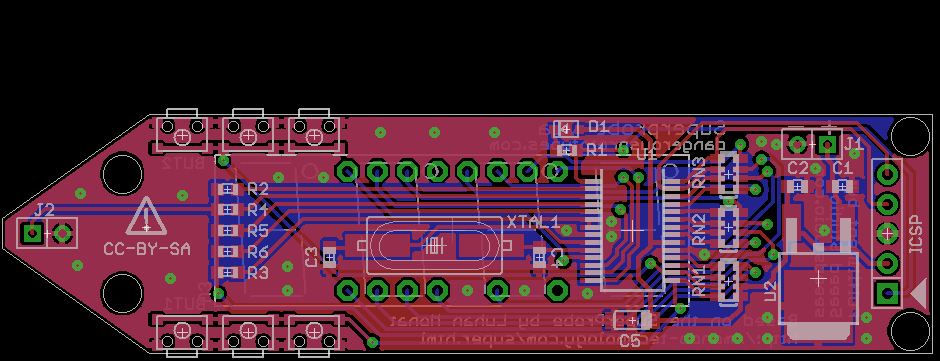
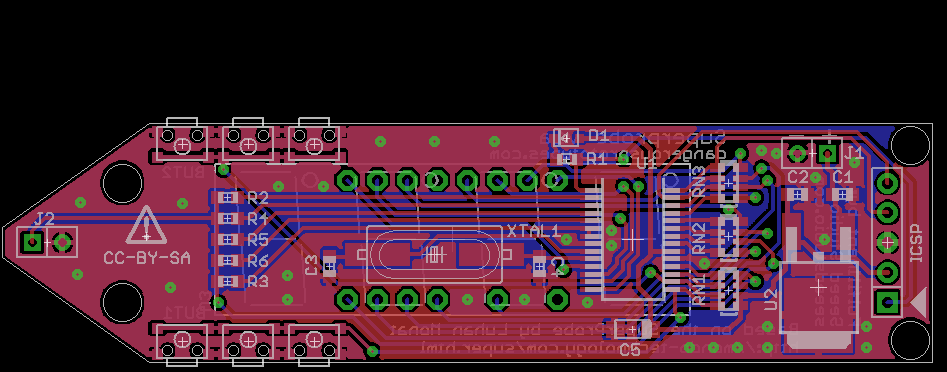
superprobe part and schematic synced

diff --git a/Super_Probe/hardware/Superprobe.v1a.htm b/Super_Probe/hardware/Superprobe.v1a.htm
@@ -1,23 +1,23 @@
 <table>
 <tr><td>Part</td><td>Quantity</td><td>Value</td><td>Package</td></tr>
 <tr><td>BUT1-BUT12</td><td>12</td><td></td><td>KMS231GPLFS</td></tr>
-<tr><td>C1,C2</td><td>2</td><td>0.1u</td><td>C603</td></tr>
+<tr><td>C1,C2</td><td>2</td><td>0.1uF</td><td>C603</td></tr>
 <tr><td>C3,C4</td><td>2</td><td>22pF</td><td>C603</td></tr>
 <tr><td>C5</td><td>1</td><td>10uF</td><td>SMC_A</td></tr>
-<tr><td>D1</td><td>1</td><td></td><td>DO323</td></tr>
+<tr><td>D1</td><td>1</td><td>BAS16</td><td>DO323</td></tr>
 <tr><td>ICSP</td><td>1</td><td>HEADER_PRG_PIC_ICSP</td><td>HEADER_PRG_1X05</td></tr>
 <tr><td>J1,J2</td><td>2</td><td>HEADER1X2PTH</td><td>M1X2</td></tr>
 <tr><td>R1</td><td>1</td><td>10k</td><td>R603</td></tr>
-<tr><td>R2</td><td>1</td><td>20</td><td>R603</td></tr>
-<tr><td>R3</td><td>1</td><td>470</td><td>R603</td></tr>
-<tr><td>R4</td><td>1</td><td>100</td><td>R603</td></tr>
-<tr><td>R5</td><td>1</td><td>150</td><td>R603</td></tr>
+<tr><td>R2</td><td>1</td><td>20R</td><td>R603</td></tr>
+<tr><td>R3</td><td>1</td><td>470R</td><td>R603</td></tr>
+<tr><td>R4</td><td>1</td><td>100R</td><td>R603</td></tr>
+<tr><td>R5</td><td>1</td><td>150R</td><td>R603</td></tr>
 <tr><td>R6</td><td>1</td><td>100k</td><td>R603</td></tr>
 <tr><td>RN1</td><td>1</td><td>10k</td><td>RN8P-4R-CRA06S</td></tr>
-<tr><td>RN2,RN3</td><td>2</td><td>330</td><td>RN8P-4R-CRA06S</td></tr>
+<tr><td>RN2,RN3</td><td>2</td><td>82R</td><td>RN8P-4R-CRA06S</td></tr>
 <tr><td>U$1</td><td>1</td><td>DP_LOGO</td><td>DP_LOGO</td></tr>
 <tr><td>U1</td><td>1</td><td>PIC16LF870SS</td><td>SSOP28</td></tr>
-<tr><td>U2</td><td>1</td><td></td><td>DPACK</td></tr>
+<tr><td>U2</td><td>1</td><td>LM2931</td><td>DPACK</td></tr>
 <tr><td>U3</td><td>1</td><td>LTC-4627</td><td>LTC-4627</td></tr>
 <tr><td>XTAL1</td><td>1</td><td>20MHz</td><td>HC-49U</td></tr>
 </table>
